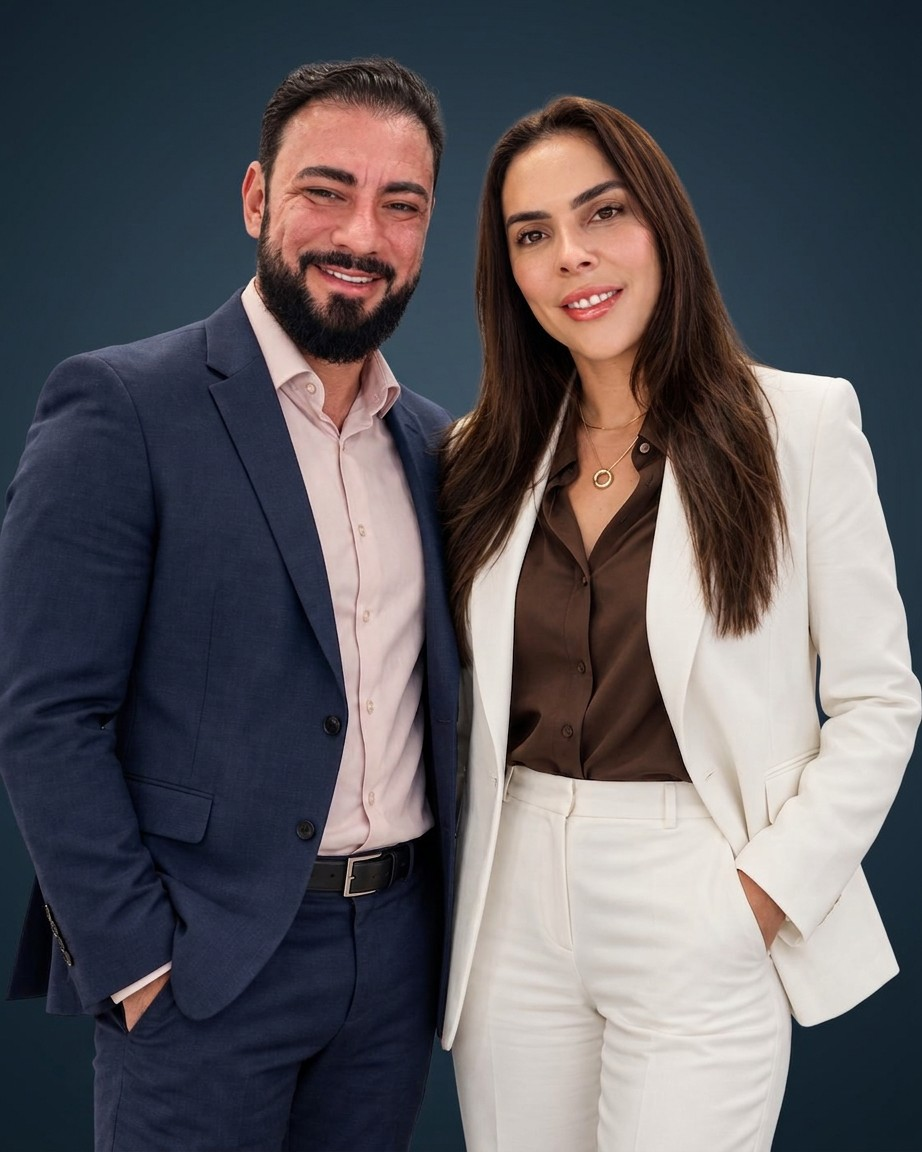
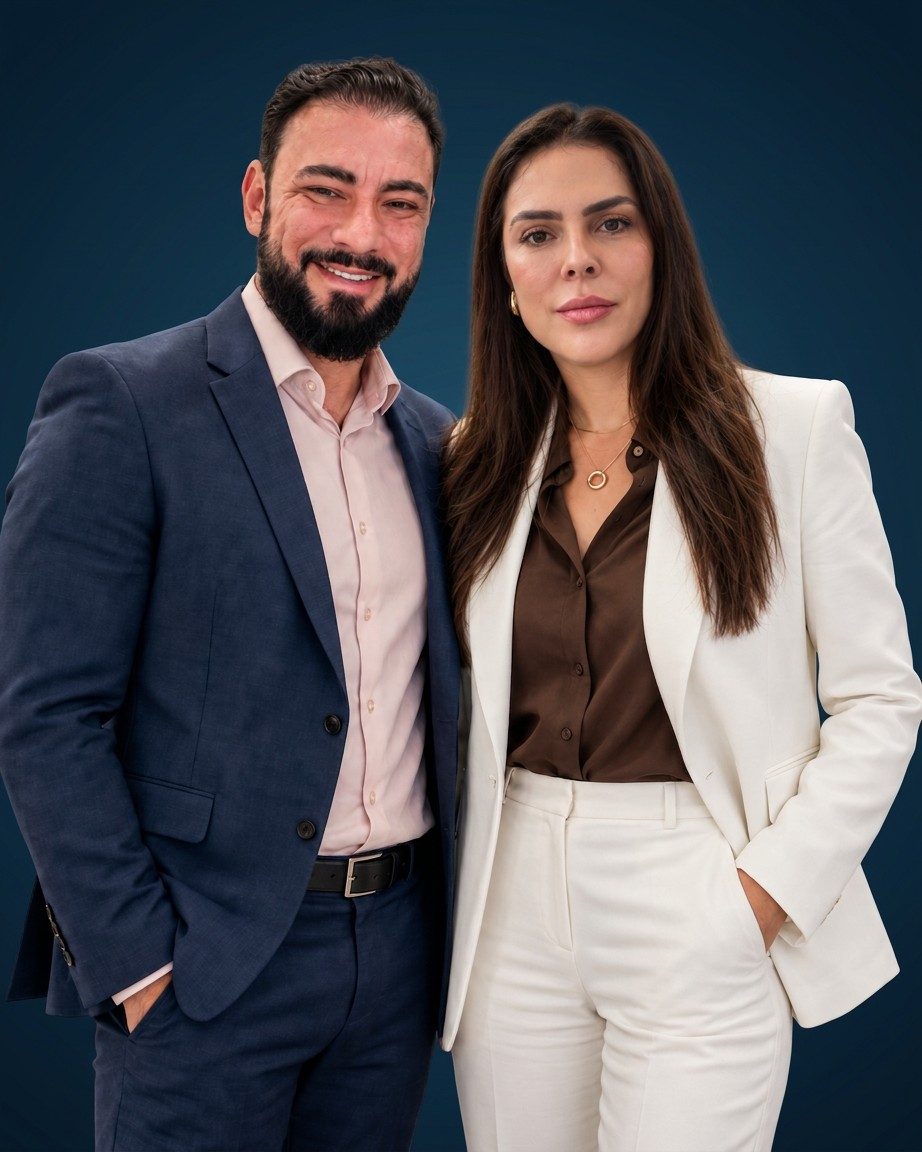
Foto dos sócios nova (estúdio, fundo azul-petróleo) + CSS do sobre-box ajustado para foto retrato (sem cortar rostos)

diff --git a/assets/index-DCdibJ6c.js b/assets/index-DCdibJ6c.js
@@ -136,8 +136,8 @@ ${y}`:`Mensagem: ${y}`:w+="Gostaria de falar com a B&C.",window.open(`https://wa
         .stat-num{font-size:2rem;font-weight:800;color:var(--petroleo)}
         .stat-label{font-size:.82rem;color:var(--cinza);font-weight:600;text-transform:uppercase;letter-spacing:.06em;margin-top:4px}
         .sobre-box{border-radius:20px;overflow:hidden;box-shadow:var(--shadow-lg);background:var(--petroleo)}
-        .sobre-box-img{width:100%;height:260px;object-fit:cover;display:block}
-        .sobre-box-caption{position:absolute;bottom:0;left:0;right:0;background:linear-gradient(transparent,rgba(10,37,64,.85));color:#fff;padding:40px 20px 14px;font-size:.85rem}
+        .sobre-box-img{width:100%;height:380px;object-fit:cover;object-position:center 22%;display:block}
+        .sobre-box-caption{position:absolute;bottom:0;left:0;right:0;background:linear-gradient(transparent,rgba(10,37,64,.9));color:#fff;padding:28px 20px 12px;font-size:.85rem}
         .sobre-box{position:relative}
         @media(max-width:960px){.sobre-grid{grid-template-columns:1fr;gap:40px}}
 
